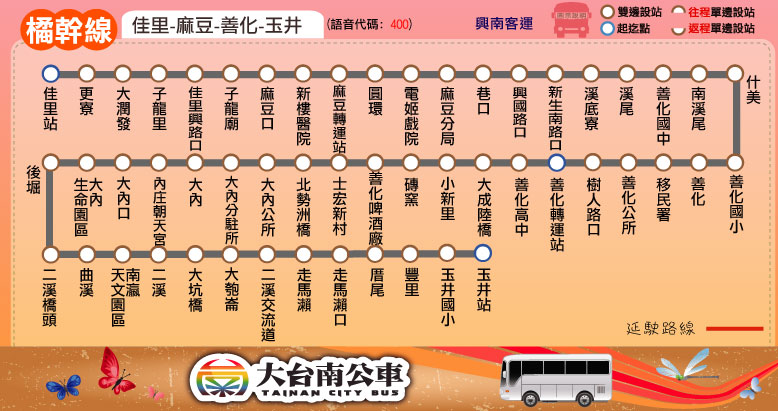
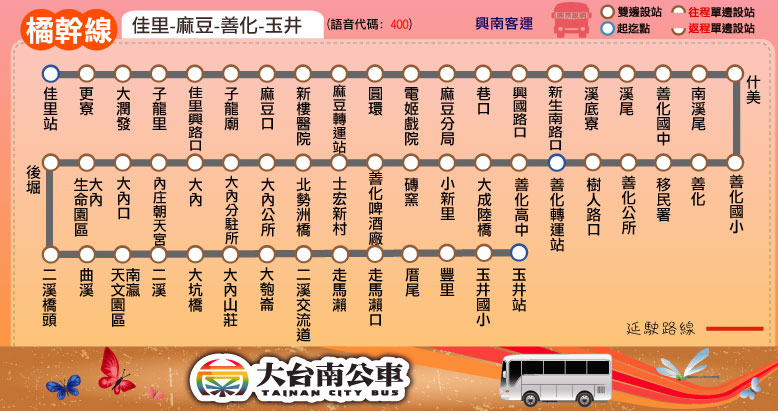
新增站點：橘幹線(增「大內山莊」)、紅幹線(增「至善橋」(往安平工業區方向))

Changed region(s): [[0.2776, 0.5839, 0.6787, 0.8467], [0.4936, 0.5839, 0.5244, 0.6131], [0.401, 0.5839, 0.4319, 0.6131]]

diff --git a/route/fare_and_time/orange.js b/route/fare_and_time/orange.js
@@ -8,7 +8,7 @@ orange_interval_stop = [
 ["善化轉運站","善化高中","大成陸橋"], // 善化轉運站
 ["小新里","磚窯","善化啤酒廠","士宏新村","北勢洲橋"], // 小新營
 ["大內公所","大內分駐所","大內","內庄朝天宮","大內口","大內生命園區","後堀"], // 大內
-["二溪橋頭","曲溪","南瀛天文園區","二溪","大坑橋","大匏崙","二溪交流道"], // 二溪
+["二溪橋頭","曲溪","南瀛天文園區","二溪","大坑橋","大內山莊","大匏崙","二溪交流道"], // 二溪
 ["走馬瀨","走馬瀨口","厝尾","豐里"], // 走馬瀨
 ["玉井國小","玉井站"] // 玉井
 ];
